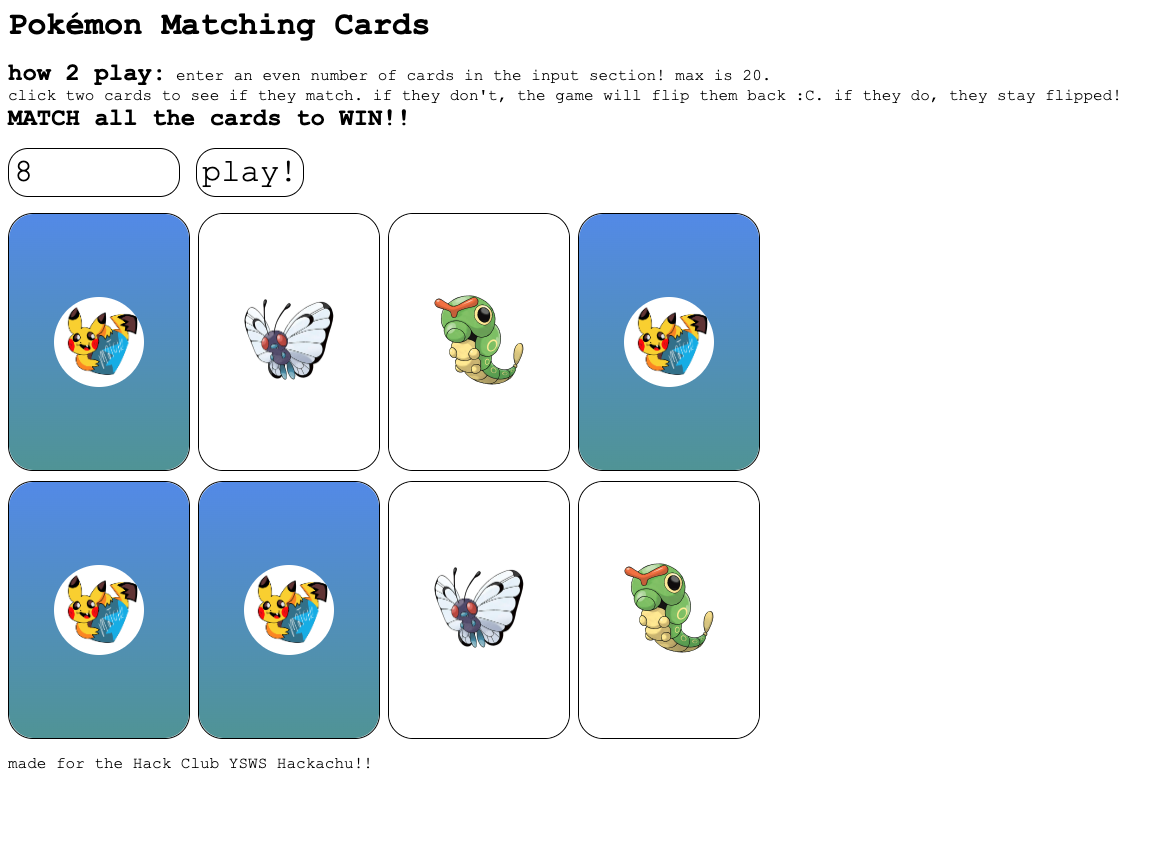
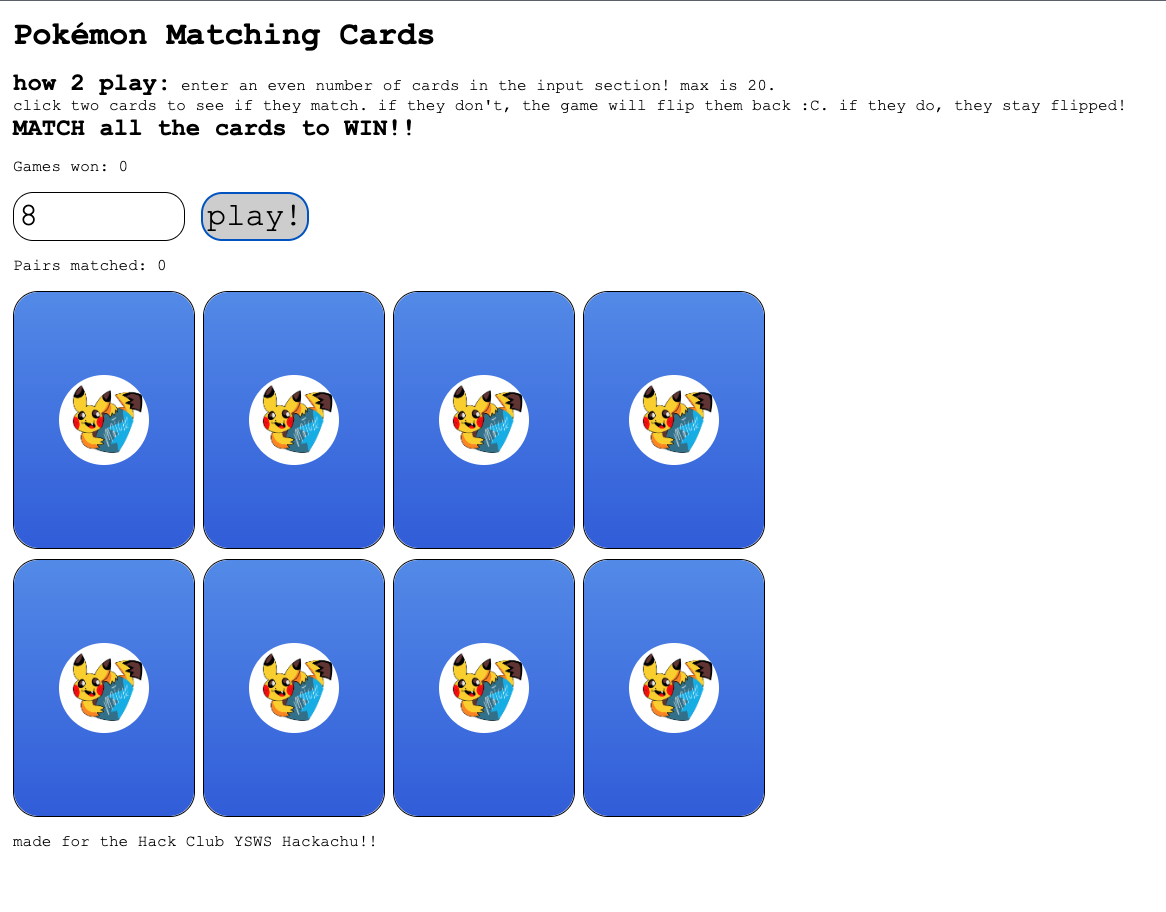
adjust readme to update w/ current features

diff --git a/README.md b/README.md
@@ -7,7 +7,7 @@ A matching-card game using the first 29 Pokémon from the Pokédex.
 
 Features:
 - ability to set any amount of cards (<=20)
-- art from the Pokémon website
+- counters telling how many games you've won and the pairs matched
 - fun card backing with original art!
 
 credits: art is from the Pokémon.com website
